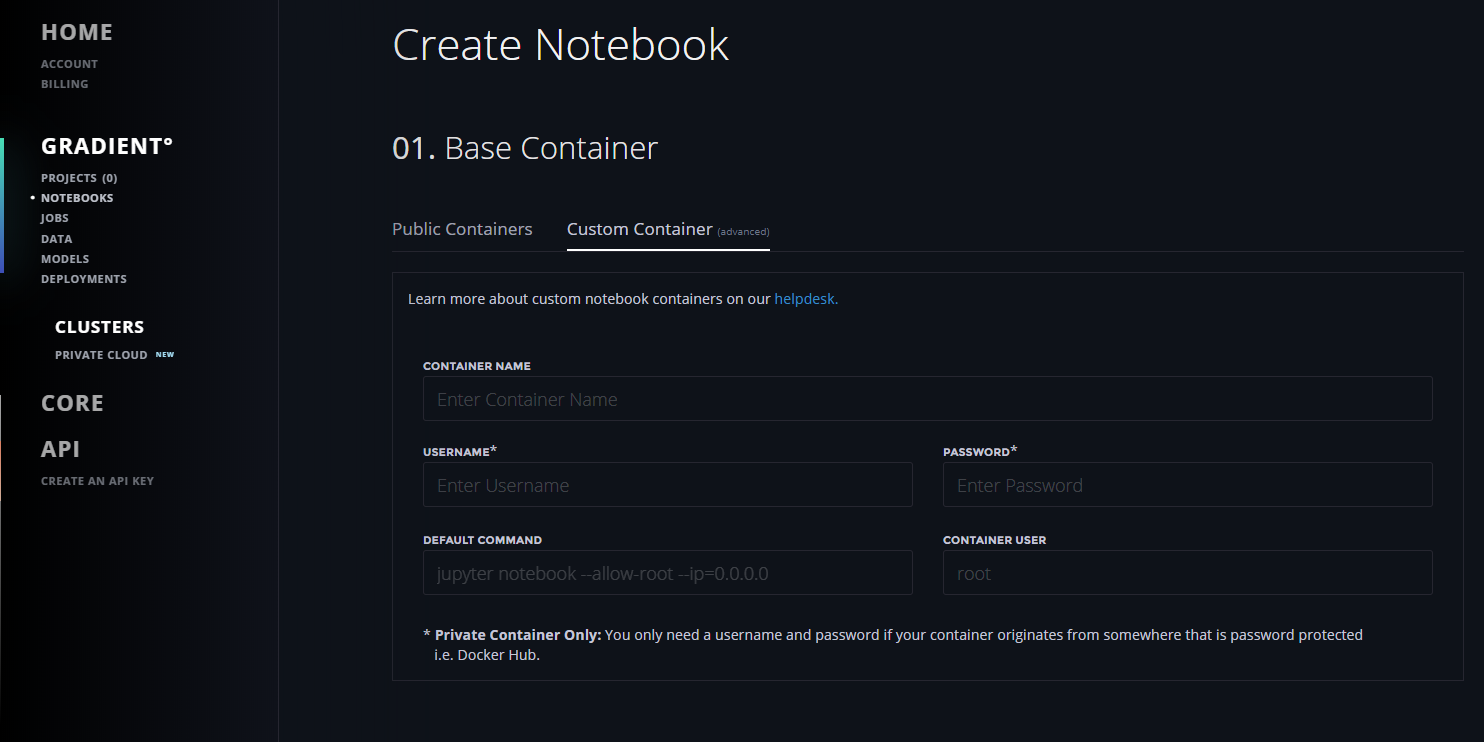
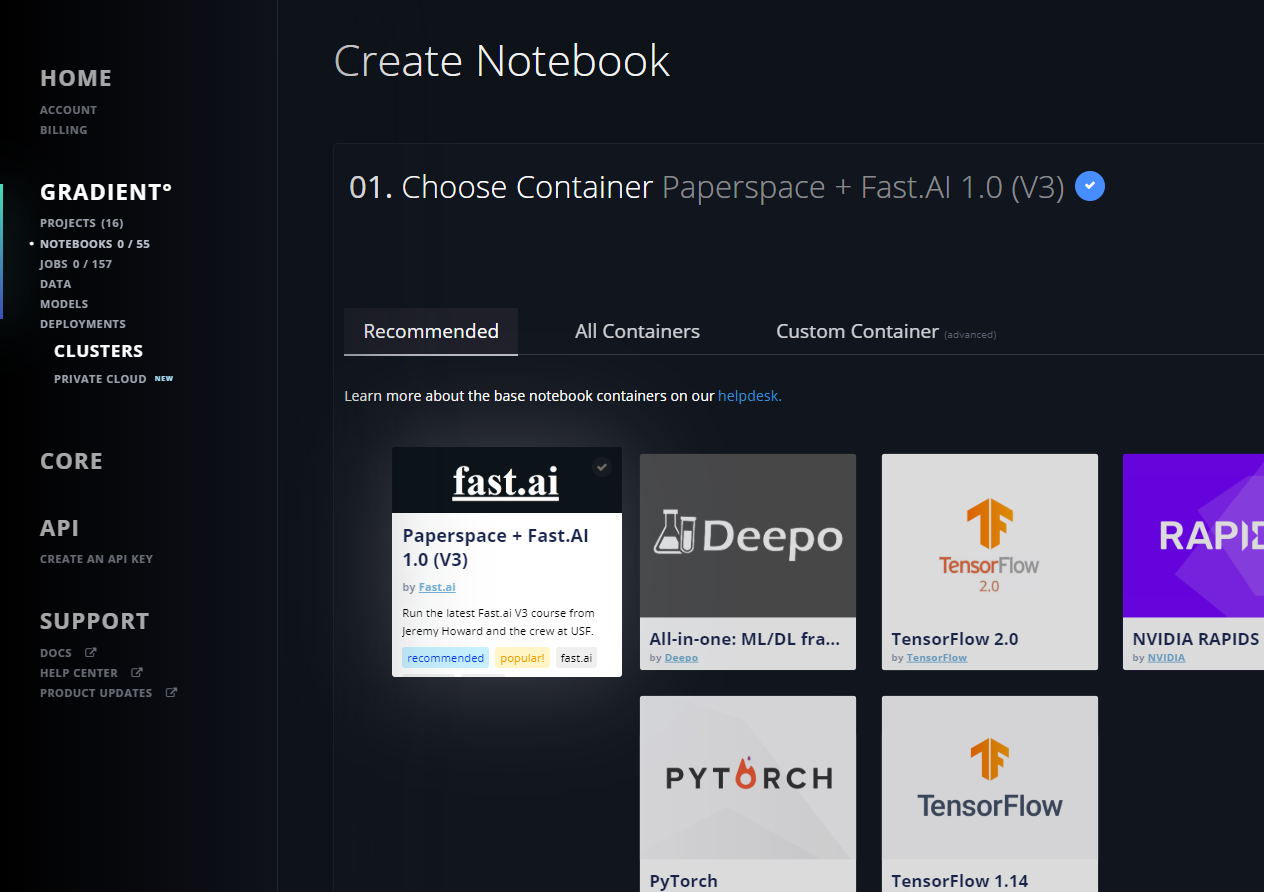
GitBook: [master] 18 pages and 32 assets modified

diff --git a/tutorials/training-and-deploying-an-ml-model-with-gradient-cli.md b/tutorials/training-and-deploying-an-ml-model-with-gradient-cli.md
@@ -2,7 +2,13 @@
 
 ## Objectives
 
-* Install and configure the Paperspace CLI
+**Prerequisites:** 
+
+* [Install Gradient CLI](../get-started/install-the-cli.md)
+* [Obtain an API Key](../get-started/install-the-cli.md#connecting-your-account)
+
+**Steps**
+
 * Learn the workflow involved in training a model
 * Use custom containers with experiments
 * Create an experiment that trains a Scikit-learn model
@@ -10,57 +16,7 @@
 * Create a long-running job \(web service\) that serves the model
 * Access the REST endpoint exposed by a job
 
-There are two Gradient experiments involved in this workflow--training and deployment. The first experiment generates a Python pickle file that gets stored in the shared storage service of Gradient. The same pickle file will be used by the second experiment running a Flask web server to expose a REST endpoint. This experiment will serve the model through the inferencing endpoint.
-
-## Installing and Configuring the Paperspace CLI
-
-To install the Gradient CLI, you'll first need to sign up for a [Paperspace account](https://www.paperspace.com/account/signup).
-
-Once you’ve created your account, install the Gradient CLI.
-
-{% hint style="info" %}
-**ProTip!** We recommend installing and using the CLI within a Python virtual environment. This will minimize conflicts with existing libraries on your computer. We recommend **virtualenv**.
-{% endhint %}
-
-### **Creating a virtual environment \(optional\)**
-
-Creating a directory _\*\*_for my virtual environment:
-
-```bash
-mkdir gradient
-```
-
-Create new virtual environment:
-
-```bash
-virtualenv gradient
-```
-
-Activate my new virtual environment:
-
-```bash
-source gradient/bin/activate
-```
-
-### **Install the CLI**
-
-```bash
-pip install -U gradient
-```
-
-Once you’ve created a Paperspace account and installed the CLI, you’ll next need to obtain an API key. Your API key will allow you to access the Gradient features from the command line. Each API key has an API Token name associated with it.
-
-## Obtaining an API key  <a id="obtaining-an-api-key"></a>
-
-First, sign in to your [Paperspace account](https://paperspace.com/). On the left of your home console, you should find an 'API' section. There, you'll find a form where you can create API keys. You'll use the API keys you generate here to authenticate your requests. API keys section of the console:
-
-![API keys section of the console \(https://www.paperspace.com/console/account/api\)](https://blobscdn.gitbook.com/v0/b/gitbook-28427.appspot.com/o/assets%2F-LHZRFUkajubOAmgu6Rd%2F-LdfHAvW1SCTEgQCIMBL%2F-LdfHBpYjeIWaedlGyv4%2Fimage.png?alt=media&token=2213be47-bdb4-4cee-a592-b8cc904eb01c)
-
-### Set your active API key  <a id="set-your-active-api-key"></a>
-
-```text
-gradient apiKey XXXXXXXXXXXXXXXXXXX
-```
+There are two Gradient experiments involved in this workflow -- training and deployment. The first experiment generates a Python pickle file that gets stored in the shared storage service of Gradient. The same pickle file will be used by the second experiment running a Flask web server to expose a REST endpoint. This experiment will serve the model through the inferencing endpoint.
 
 ## Creating a Gradient Experiment to Train the Model
 
@@ -153,7 +109,9 @@ We are using a custom Docker container image with prerequisites such as NumPy, S
 
 ## Creating a Gradient Experiment to Deploy and Host the Model
 
+{% hint style="info" %}
 _Note: check out the_ [_Create a Deployment docs_](../deployments/create-a-deployment-ui.md#create-a-deployment) _for a more up-to-date way to deploy your models using the newer first-class Deployments feature in Gradient. The following section describes a how to deploy models with Gradient using Jobs._
+{% endhint %}
 
 We are now ready to host the trained model in a Gradient experiment that runs a Flask web server. The experiment loads the pickle file created and stored by the last experiment at the `/storage` location.
 
@@ -199,7 +157,7 @@ Unlike the previous experiment, this wouldn’t get terminated unless it is manu
 
 Let’s go ahead and submit the experiment to Gradient.
 
-```text
+```bash
 gradient jobs create \
 --container janakiramm/python:3 \
 --machineType C2 \
@@ -219,13 +177,21 @@ gradient jobs list
 
 Make a note of the _fqdn_ parameter mentioned in the output. We need that to access the REST endpoint. Since we are using the _jq_ utility, we can also grab the _fqdn_ with a simple command.
 
-$ export GRAD\_HOST=\`paperspace jobs list \| jq -r .\[\].fqdn\`
+```bash
+export GRAD_HOST=`paperspace jobs list | jq -r .[].fqdn`
+```
 
 It’s time for us to hit the REST endpoint to get the predictions. Let’s check the expected salary of a candidate with 25 years of experience.
 
-$ curl $GRAD\_HOST:8080/sal/25
+```bash
+curl $GRAD_HOST:8080/sal/25
+```
 
+This should return:
+
+```text
 {"salary":149121.27}
+```
 
 Congratulations! You have successfully completed the end-to-end workflow involved in training and deploying machine learning models with Gradient.
 
@@ -236,8 +202,4 @@ export JOB_ID=`gradient jobs list | jq .[].id`
 gradient jobs stop $JOB_ID
 gradient jobs destroy $JOB_ID
 ```
-
-## Summary
-
-Apart from CLI, users can submit experiment through the web UI available within Paperspace Console. For interactive development, Jupyter Notebooks can be launched.
 

diff --git a/notebooks/create-a-notebook.md b/notebooks/create-a-notebook.md
@@ -2,25 +2,31 @@
 
 ## Choose your Base Container
 
-Notebooks can be created by clicking _Create Notebook_ button on the Notebooks tab.  There are two types of base containers:
+Notebooks can be created by clicking _Create Notebook_ button on the Notebooks tab.  There are three types of base containers:
 
-### Public Containers \(Basic\)
+### Popular Containers \(Basic\)
 
-[Click here](https://support.paperspace.com/hc/en-us/articles/360001597074) to discover which Notebook Base Container will best suit your use case, then choose it from the options below:
+These are the templates that are most popular on Gradient.  They include the most common ML frameworks and libraries.  [Click here](notebook-containers/) to discover which Notebook Base Container will best suit your use case, then choose it from the options below:
 
-![](../.gitbook/assets/image%20%2820%29.png)
+![](../.gitbook/assets/image%20%2826%29.png)
+
+### All Containers \(Basic\)
+
+These are additional templates that are made available in Gradient as a 1-click option.  [Click here](notebook-containers/) to discover which Notebook Base Container will best suit your use case, then choose it from the options below:
+
+![](../.gitbook/assets/image%20%282%29.png)
 
 ### Custom Containers \(Advanced\)
 
 If you need to import an existing container, visit the Custom Containers section. Learn more [here](notebook-containers/).
 
-![](../.gitbook/assets/image%20%2821%29.png)
+![](../.gitbook/assets/image%20%2823%29.png)
 
 ## Choose the instance type
 
 This is infrastructure that your notebook will run on. Our hardware is configured to work with the tools and packages in each of the provided containers.
 
-![](../.gitbook/assets/image%20%2815%29.png)
+![](../.gitbook/assets/image%20%2817%29.png)
 
 ## Optional Settings:
 
@@ -30,9 +36,9 @@ Provide a friendly name for your Notebook in the text field
 
 ### Auto-shutdown
 
-If you are a [Gradient 1 \(or higher\) subscriber](https://support.paperspace.com/hc/en-us/articles/360002068913), you will have the ability to set a custom auto-shutdown interval. 
+If you have a [Gradient subscription](https://gradient.paperspace.com/pricing), you will have the ability to set a custom auto-shutdown interval. 
 
-If you are a Gradient 0 subscriber, your notebook will default to an auto-shutdown interval of 12 hours, to help avoid unexpected runtime charges. Once created, you can stop, start, fork, and swap out the instance type anytime. 
+If you do not have a Gradient subscription, your notebook will default to an auto-shutdown interval of 12 hours, to help avoid unexpected runtime charges. Once created, you can stop, start, fork, and swap out the instance type anytime. 
 
 ## Click Create
 

diff --git a/tutorials/training-and-deploying-an-ml-model-with-gradient-ui.md b/tutorials/training-and-deploying-an-ml-model-with-gradient-ui.md
@@ -128,11 +128,15 @@ The fully trained and pickled model \(`model.pkl`\) is now available at `/storag
 
 With the training job done, we will now host a long-running job that exposes a REST endpoint for serving the model. The GitHub repo has the code for loading the pickled model file and running a Flask-based web server.
 
-Start by creating a new job with the following parameters. Notice that it is similar to the training job except the command `pip install flask && python deploy/infer.py -m /storage/salary/model.pkl`.
+Start by creating a new job with the following parameters. Notice that it is similar to the training job except the command.
+
+```bash
+pip install flask && python deploy/infer.py -m /storage/salary/model.pkl
+```
 
 We first install the Flask module and then launch `infer.py` which picks up the model file `/storage/salary/model.pkl`. Feel free to explore the code of `infer.py` to understand how I load the pickled model file and wire it to the GET request.
 
-Since we are running a web server, we also need to enable port mapping. This is done by entering 8080:8080 in the Ports section of the job.
+Since we are running a web server, we also need to enable port mapping. This is done by entering `8080:8080` in the Ports section of the job.
 
 ![](https://lh3.googleusercontent.com/w0SWsgKE2hQ7DlKZrKeSntlWssuVc-pz8E8mFyVxJhBll3fcmWnJrrMevU0py9PS2gtF78uRskM76G21vQvbdQuSHjBeX6uV1st_OlSdjtAflcQK2uKUrQfYEwUnvCBVgzCi5SZ0)
 

diff --git a/gradient-private-cloud/gradient-ami.md b/gradient-private-cloud/gradient-ami.md
@@ -30,13 +30,13 @@ Starting a gradient-node from the AMI is simple: select the AMI from the AWS Mar
 7. Launch your new instance
 8. On boot, the instance will automatically register with your Gradient account and will be ready to accept Jobs.  See the [usage](usage.md) section for submitting jobs to a Gradient node.
 
-![Once provisioned, the Gradient node will auto register with your account.](../.gitbook/assets/image%20%2823%29.png)
+![Once provisioned, the Gradient node will auto register with your account.](../.gitbook/assets/image%20%2827%29.png)
 
 ## Passing credentials via user-data \(preferred\)
 
 You can pass credentials into the Gradient° instance at launch time, which enables the node to start automatically and associate itself in your account. You would not have to SSH into the running instance to configure the gradient-node. Below is the text you should copy into the user-data field under "Advanced Details" in Step 3, "Configure Instance Details," when launching an EC2 instance:
 
-![](../.gitbook/assets/image%20%2817%29.png)
+![](../.gitbook/assets/image%20%2819%29.png)
 
 ```text
 #cloud-config

diff --git a/tutorials/dealing-with-gradient-deployments.md b/tutorials/dealing-with-gradient-deployments.md
@@ -21,7 +21,7 @@ Once a model is registered and available in Gradient, it can be used for model s
 
 Make sure that the model is registered with Gradient.
 
-```text
+```bash
 gradient models list
 ```
 
@@ -35,7 +35,7 @@ gradient models list
 
 Run the below command to convert the registered model into a scalable deployment.
 
-```text
+```bash
 gradient deployments create \
     --deploymentType TFServing \
     --modelId mosdnkkv1o1xuem \
@@ -63,13 +63,21 @@ The above command has multiple switches that are important for the deployment co
 
 Now, start the deployment with the below command:
 
-`gradient deployments start --id deslid8n74p4bvs`
+```bash
+gradient deployments start --id deslid8n74p4bvs
+```
 
-`Deployment started`
+This should return:
+
+```text
+Deployment started
+```
 
 You can list all the deployments with gradient Deployments list command.
 
-`gradient deployments list` 
+```bash
+gradient deployments list
+```
 
 ```text
 +---------------------+-----------------+----------------------------------------------------------------------+----------+---------------------------+

diff --git a/SUMMARY.md b/SUMMARY.md
@@ -11,11 +11,11 @@
 ## Tutorials
 
 * [Getting Started with Notebooks](tutorials/getting-started-with-gradient-notebooks.md)
-* [Launching Notebooks from Custom Containers](tutorials/using-custom-containers-with-gradient.md)
 * [Train & Deploy an ML Model with the Gradient CLI](tutorials/training-and-deploying-an-ml-model-with-gradient-cli.md)
 * [Train & Deploy an ML Model with the Experiment Builder](tutorials/training-and-deploying-an-ml-model-with-gradient-ui.md)
 * [Registering Models in Gradient](tutorials/registering-models-in-gradient.md)
 * [Using Gradient Deployments](tutorials/dealing-with-gradient-deployments.md)
+* [Launching Notebooks from Custom Containers](tutorials/using-custom-containers-with-gradient.md)
 
 ## Notebooks
 

diff --git a/get-started/quick-start.md b/get-started/quick-start.md
@@ -16,7 +16,7 @@ Now you can create Notebooks, Jobs, Projects, Experiments, and more!
 
 Notebooks can be created by clicking _Create Notebook_ button on the Notebooks tab. You can stop, start, fork, and swap out the instance type anytime. Choose from a wide selection of pre-configured templates or bring your own. See more info [here](../notebooks/about.md).
 
-![](../.gitbook/assets/image%20%2820%29.png)
+![](../.gitbook/assets/image%20%2822%29.png)
 
 ## Submit an Experiment
 
@@ -24,7 +24,7 @@ You can run Experiments from the web interface or CLI:
 
 ### Using the Experiment Builder
 
-![](../.gitbook/assets/image%20%283%29.png)
+![](../.gitbook/assets/image%20%284%29.png)
 
 ### Using the CLI
 

diff --git a/get-started/core-concepts.md b/get-started/core-concepts.md
@@ -6,7 +6,7 @@ A Gradient [Project](../projects/about.md) is a collection of Experiments, Jobs,
 
 ## Notebooks
 
-![](../.gitbook/assets/image%20%282%29.png)
+![](../.gitbook/assets/image%20%283%29.png)
 
 A [Notebook](../notebooks/about.md) is an interactive coding environment that allows you to mix code or formulas with text and diagrams, visualizations, and other media. Notebooks make it easy to explore data and coding concepts, and collaborate with other people on projects. Gradient integrates with Jupyter Notebooks and Jupyter Lab, making it easy to get a coding environment provisioned in seconds.
 

diff --git a/get-started/install-the-cli.md b/get-started/install-the-cli.md
@@ -90,5 +90,5 @@ gradient experiments run ... --apiKey XXXXXXXXXXXXXXXXXXX
 
 First, sign in to your [Paperspace account](https://paperspace.com/). On the left of your home console, you should find an 'API' section. There, you'll find a form where you can create API keys. You'll use the API keys you generate here to authenticate your requests.
 
-![API keys section of the console \(https://www.paperspace.com/console/account/api\)](../.gitbook/assets/image%20%286%29.png)
+![API keys section of the console \(https://www.paperspace.com/console/account/api\)](../.gitbook/assets/image%20%288%29.png)
 

diff --git a/data/managing-data-in-gradient.md b/data/managing-data-in-gradient.md
@@ -10,7 +10,7 @@
 
 When opening your notebook you will see a `/storage` folder. Clicking on the folder will take you to Persistent Storage where you can upload your data.  If there are a large amount of files, it's advisable to zip them up first. 
 
-![](../.gitbook/assets/image%20%2822%29.png)
+![](../.gitbook/assets/image%20%2825%29.png)
 
 #### From a Virtual Machine \(VM\)
 

diff --git a/README.md b/README.md
@@ -15,7 +15,7 @@ Gradient is comprised of the following components:
 
 ### Register [here](https://www.paperspace.com/account/signup?gradient=true) to get access to Gradient.
 
-![](.gitbook/assets/image%20%2812%29.png)
+![](.gitbook/assets/image%20%2814%29.png)
 
 The best way to discover Gradient is to try it out. You can get started in seconds with the following guide:
 

diff --git a/notebooks/notebook-containers/README.md b/notebooks/notebook-containers/README.md
@@ -33,7 +33,7 @@ Custom containers feature lets you pull your own image from a container registry
 
 * Container Name = Path and tags of image eg `ufoym/deepo:all-jupyter-py36`
 
-![](../../.gitbook/assets/image%20%2827%29.png)
+![](../../.gitbook/assets/image%20%2831%29.png)
 
 #### Optional Parameters:
 
